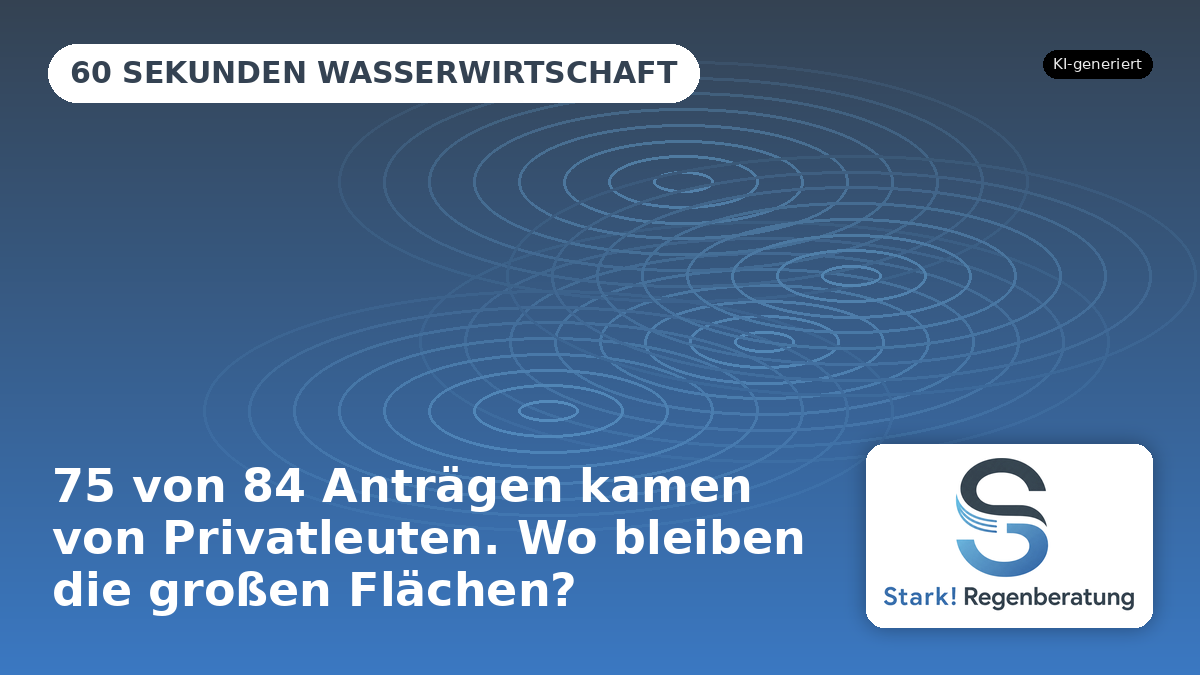
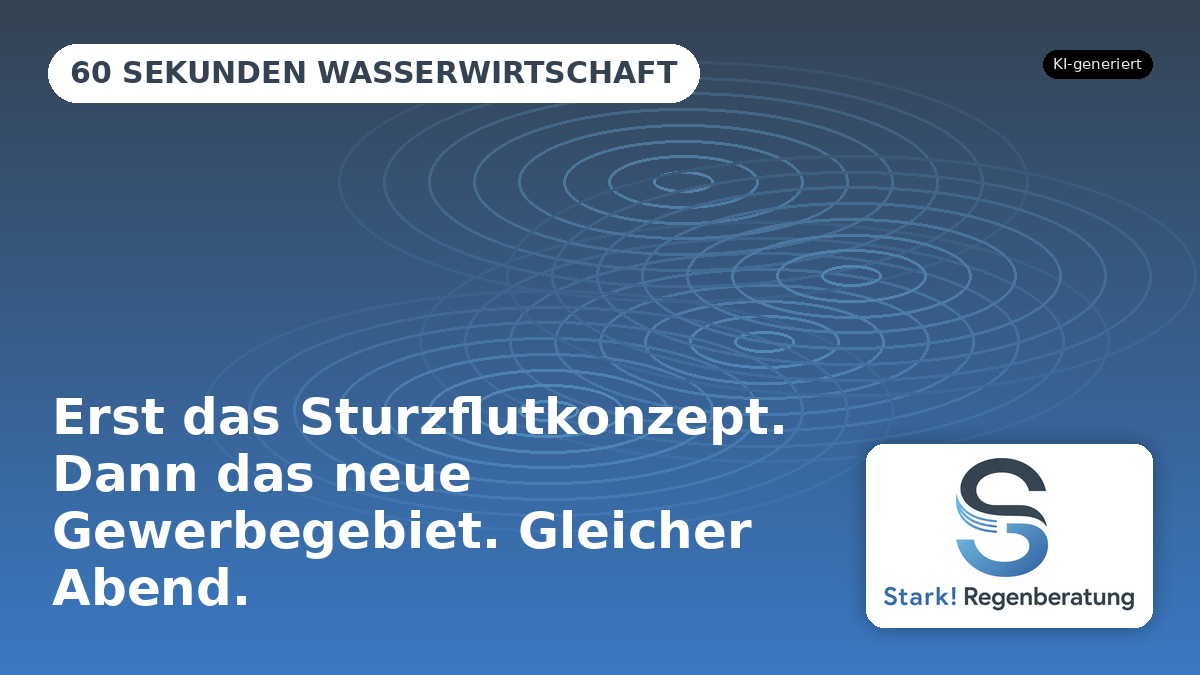
linkedin60: Bildtext wird nie abgeschnitten, Testentwurf mit Bild
Claude-Session: https://claude.ai/code/session_01FhoSr4WPc5o5Wm3LeXVEvM

Changed region(s): [[0.0308, 0.5911, 0.6783, 0.9333]]

diff --git a/linkedin60/bild.py b/linkedin60/bild.py
@@ -127,12 +127,12 @@ def erstellen(datum, aussage, hintergrund=None):
     d.text((70, 73), TITEL.upper(), font=f_titel, fill=DUNKEL, anchor="lm")
 
     # Kernaussage unten links, Größe passt sich der Länge an
-    for size in (120, 96, 78, 64, 54, 46):
+    # nie abschneiden: so lange verkleinern, bis der Text in höchstens 4 Zeilen passt
+    for size in (120, 96, 78, 66, 58, 50, 44, 38, 34):
         f_aussage = font(FONT_BOLD, size)
-        lines = wrap(d, aussage, f_aussage, 760)
-        if len(lines) <= 3:
+        lines = wrap(d, aussage, f_aussage, 770)
+        if len(lines) <= (3 if size >= 58 else 4):
             break
-    lines = lines[:3]
     line_h = int(size * 1.15)
     y = H - 60 - line_h * len(lines)
     for line in lines:

diff --git a/linkedin60/entwuerfe/2026-10-18.md b/linkedin60/entwuerfe/2026-10-18.md
@@ -1,40 +1,28 @@
 60 Sekunden Wasserwirtschaft
 
-9.
+2035. Der Gemeinderat tagt mal wieder zur Sturzflut am Bach.
 
-So viele der 84 bewilligten Anträge im Bremer Förderprogramm Schwammstadt kamen von Institutionen. Der Rest: Privatleute. Gründächer, Zisternen, Entsiegelung im eigenen Hof.
+Das Konzept dazu ist fast zehn Jahre alt. Daneben das Gewerbegebiet, dessen Planung am selben Abend angeschoben wurde.
 
-Lies das noch mal langsam.
+Kein Märchen. In Veitshöchheim lag im Oktober beides in einer Sitzung auf dem Tisch: das neue Sturzflutkonzept und der Vorentwurf für den Flächennutzungsplan mit neuem Gewerbegebiet.
 
-Die Leute mit den kleinsten Flächen machen die Arbeit. Die mit den großen Dächern, Parkplätzen und Schulhöfen schauen zu.
+Eigenanteil fürs Konzept: 3.750 Euro. Billig. Teuer wird, was danach versiegelt wird.
 
-Und dann geht das Spiel los, das ich aus fast jeder Stadt kenne.
+Ehrliche Frage an alle Räte: Welches eurer Konzepte hat schon mal einen Bebauungsplan verhindert?
 
-Die Politik sagt: Wir haben doch ein Förderprogramm. Und einen Wettbewerb. Bremen hat beim Abpflastern 2270 Quadratmeter geschafft, Top 3 bundesweit. Klingt gut. Ist ungefähr ein Drittel Fußballfeld.
-
-Der Netzbetreiber sagt: Unser Kanal ist für Starkregen nicht gebaut, das kann er auch nicht. Stimmt.
-
-Der Bürger sagt: Warum soll ich meinen Vorgarten aufreißen, wenn nebenan der Discounter seinen Parkplatz frisch asphaltiert? Stimmt auch.
-
-Jeder hat recht. Und genau deshalb passiert zu wenig.
-
-Bis zu 5.000 Euro pro Projekt sind für ein Einfamilienhaus ein Argument. Für eine Wohnungsbaugesellschaft oder ein Gewerbegebiet sind sie ein Rundungsfehler. Wer die großen Flächen will, muss sie anders ansprechen. Mit Pflicht, mit Gebühr, mit Bauleitplanung. Nicht mit noch einem Flyer.
-
-Also, ehrliche Frage: Solange Privatleute freiwillig mehr tun als die Institutionen mit den großen Flächen, wie lange wollen wir das noch Förderprogramm nennen und nicht Ausrede?
-
-#Schwammstadt #Starkregen #Kommunalpolitik
+#Starkregen #Bauleitplanung #Kommunalpolitik
 
 ---
 
-Thema: Bremer Schwammstadt-Förderung: Privatleute handeln, Institutionen kaum
-Bildtext: 75 von 84 Anträgen kamen von Privatleuten. Wo bleiben die großen Flächen?
-Format: Eine Zahl | Zielgruppe: Alle drei gegeneinander | Länge: lang
+Thema: Sturzflutkonzept und neues Gewerbegebiet in derselben Ratssitzung
+Bildtext: Erst das Sturzflutkonzept. Dann das neue Gewerbegebiet. Gleicher Abend.
+Format: Szenario 2035 | Zielgruppe: Kommunalpolitik und Landespolitik | Länge: kurz
 
 Alternative erste Zeilen:
-- 84 Anträge. 75 davon von Privatleuten.
-- Die Schwammstadt wird gerade von Gartenbesitzern gebaut. Nicht von der Stadt.
+- Ein Sturzflutkonzept für 3.750 Euro. Und am selben Abend ein neues Gewerbegebiet.
+- 2035 werden wir uns fragen, warum das Konzept in der Schublade lag.
 
 Quellen:
-- https://www.weser-kurier.de/bremen/politik/bremens-weg-zur-schwammstadt-vorsorge-gegen-hitze-und-starkregen-doc87ws10r2tidvfxq9nok
-- https://www.schwammstadt-bremen.de/
-- https://www.bremen-pflastert-ab.de/
+- https://www.veitshoechheim-blog.de/2026/10/veitshochheim-rustet-sich-gegen-starkregen-und-sturzfluten-gemeinderat-stimmt-umfassendem-risikomanagement-konzept-zu.html
+- https://www.veitshoechheim-blog.de/2026/10/veitshochheim-plant-seine-zukunft-neu-gewerbegebiet-richtung-gadheim-und-bebauung-am-geisberg-umstritten.html
+- https://www.gemeinde-veitshoechheim.de/rathaus-politik/veitshoechheim-aktuell/katastrophenschutz/sturzflut
